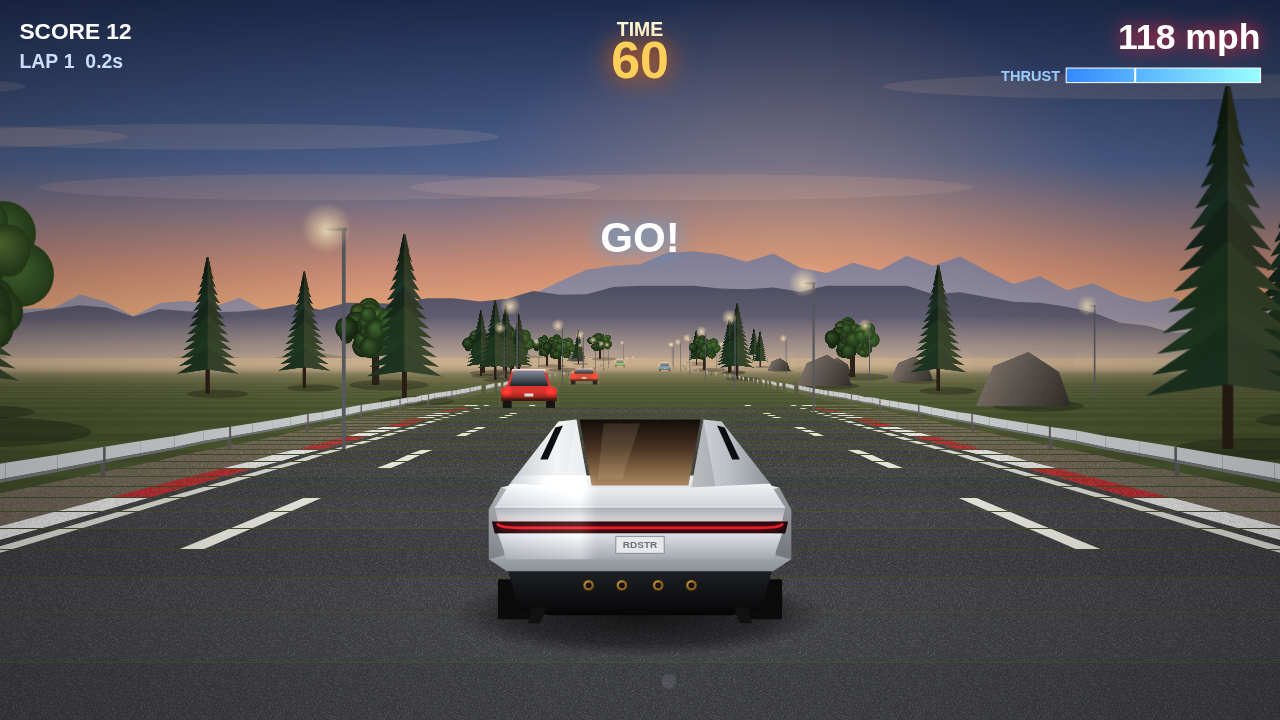
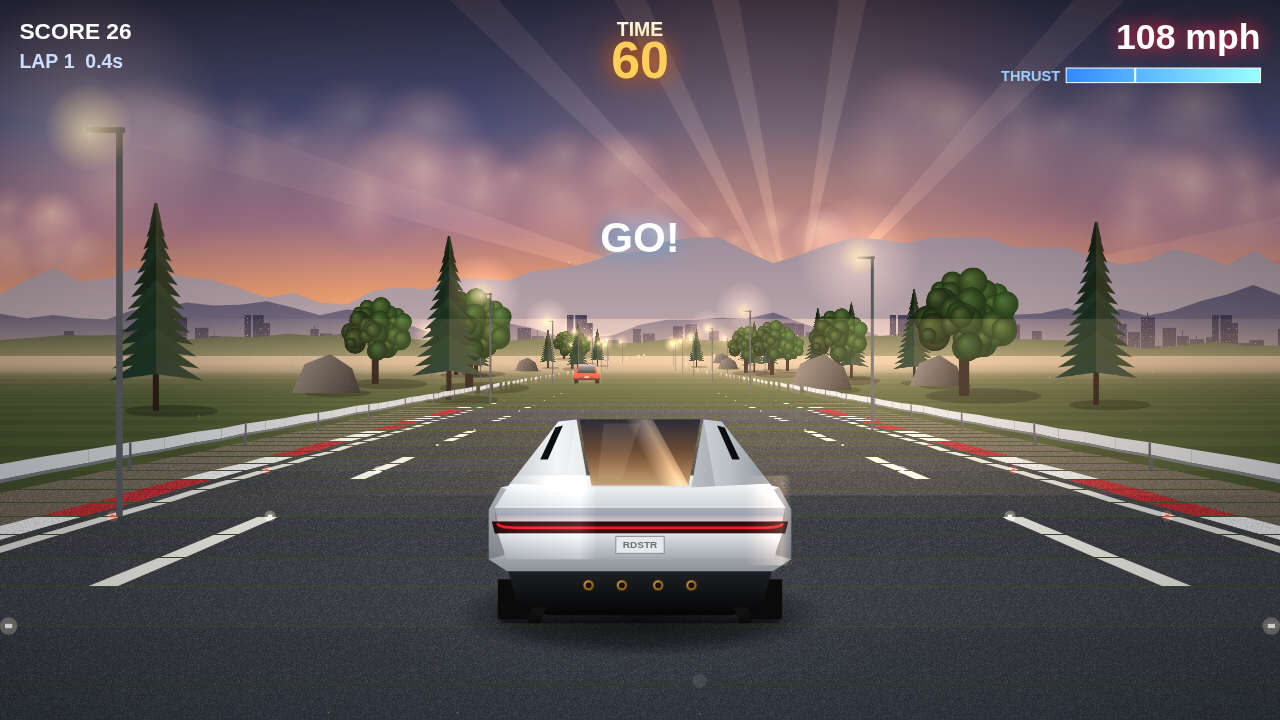
Graphics upgrade, centered jump button

diff --git a/index.html b/index.html
@@ -6,7 +6,7 @@ canvas{display:block;width:100vw;height:100vh;touch-action:none}</style></head><
 <script>
 "use strict";
 const cv=document.getElementById('c'),ctx=cv.getContext('2d');
-let W,H,DPR;function resize(){DPR=Math.min(2,window.devicePixelRatio||1);W=innerWidth;H=innerHeight;cv.width=W*DPR;cv.height=H*DPR;ctx.setTransform(DPR,0,0,DPR,0,0);}
+var Q=2;let W,H,DPR;function resize(){DPR=Math.min(Q<2?1.25:2,window.devicePixelRatio||1);W=innerWidth;H=innerHeight;cv.width=W*DPR;cv.height=H*DPR;ctx.setTransform(DPR,0,0,DPR,0,0);}
 addEventListener('resize',resize);resize();
 ['touchmove','gesturestart','dblclick','contextmenu'].forEach(e=>document.addEventListener(e,ev=>ev.preventDefault(),{passive:false}));
 // ---- track ----
@@ -79,11 +79,11 @@ let slider={},steerT=0,steerId=null,gasP=0,brkP=0;
 let _sb=null;function safeB(){if(_sb==null){const d=document.createElement('div');d.style.cssText='position:fixed;bottom:0;height:0;padding-bottom:env(safe-area-inset-bottom)';document.body.appendChild(d);_sb=parseFloat(getComputedStyle(d).paddingBottom)||0;d.remove();}return _sb;}
 addEventListener('resize',()=>_sb=null);
 function layout(){const s=Math.min(W,H),b=Math.max(60,s*.16),m=16+H*.09+safeB();
- slider={x:16+b*.1,y:H-m-b*.55,w:Math.min(W*.38,b*3.2),h:b*.5,kr:b*.42};
+ slider={x:16+b*.1,y:H-m-b*.55,w:Math.max(b*1.2,Math.min(W*.38,b*3.2,W/2-b*.44-16-b*.1-b*.5)),h:b*.5,kr:b*.42};
  const tw=Math.max(70,b*1.2),th=Math.max(30,b*.42);tgl={x:16,y:slider.y-slider.h*2.6-th-8,w:tw,h:th};rcb={x:16+tw+8,y:tgl.y,w:th*1.3,h:th};
  const gw=b*.62,gh=b*1.45,bw=b*1.05,bh=b*.95;
  const mx=16;btns=[{id:'G',x:W-mx-gw,y:H-m-gh,w:gw,h:gh,lb:'GAS'},{id:'B',x:W-mx-gw-mx-bw,y:H-m-bh,w:bw,h:bh,lb:'BRAKE'},
- {id:'J',x:W-mx-gw-mx-bw-b*.1,y:H-m-bh-mx*2-b*1.3,w:b*1.2,h:b*1.2,lb:'JUMP',round:1}];}
+ {id:'J',x:W/2-b*.44,y:H-m-b*.88,w:b*.88,h:b*.88,lb:'JUMP',round:1}];}
 let isTouch=FORCE_TOUCH;
 function tUpd(e){e.preventDefault();isTouch=true;audioInit();touches={};gasP=brkP=0;const r=cv.getBoundingClientRect();let sl=false;
  if(e.type=='touchend')requestTilt();
@@ -155,7 +155,7 @@ function poly(x1,y1,x2,y2,x3,y3,x4,y4,c){ctx.fillStyle=c;ctx.beginPath();ctx.mov
 const cw=()=>Math.min(W*.32,H*.42),carY=()=>H*.86-jumpZ*H*.22;
 let mtn=[];for(let l=0;l<3;l++){const a=[];let v=.5;for(let i=0;i<=128;i++){v+= (Math.random()-.5)*.25;v=Math.max(.05,Math.min(1,v));a.push(v);}mtn.push(a);}
 let skyOff=0,perf=0;
-function mk(w,h,f){const c=document.createElement('canvas');c.width=w;c.height=h;f(c.getContext('2d'),w,h);return c;}
+function mk(w,h,f){const c=document.createElement('canvas');c.width=w;c.height=h;c.getContext('2d').imageSmoothingQuality='high';f(c.getContext('2d'),w,h);return c;}
 const rnd=(a,b)=>a+Math.random()*(b-a);
 const NOISE=mk(128,128,(g,w,h)=>{const d=g.createImageData(w,h);for(let i=0;i<d.data.length;i+=4){const v=Math.random()*255;d.data[i]=d.data[i+1]=d.data[i+2]=v;d.data[i+3]=Math.random()*38;}g.putImageData(d,0,0);});
 let NPAT=null;
@@ -169,22 +169,49 @@ function pine(g,w,h){g.fillStyle='#2a1d14';g.fillRect(w*.47,h*.8,w*.06,h*.2);
   g.fillStyle='rgba(255,190,120,.12)';g.beginPath();g.moveTo(w*.5,y-h*.08);g.lineTo(w*.5+hw,y+h*.06);g.lineTo(w*.5,y+h*.03);g.fill();}}
 const SPR={oak:[mk(256,256,oak),mk(256,256,oak)],pine:[mk(160,320,pine),mk(160,320,pine)],
  rock:[mk(160,90,(g,w,h)=>{const gr=g.createLinearGradient(0,0,w,h);gr.addColorStop(0,'#8c8178');gr.addColorStop(1,'#2e2925');g.fillStyle=gr;g.beginPath();g.moveTo(5,h);g.lineTo(w*.2,h*.3);g.lineTo(w*.55,h*.05);g.lineTo(w*.85,h*.4);g.lineTo(w-5,h);g.fill();g.globalAlpha=.5;g.drawImage(NOISE,0,0,w,h);})]};
-function bg(){const hz=H*.5;const g=ctx.createLinearGradient(0,0,0,hz);g.addColorStop(0,'#1d2c4f');g.addColorStop(.45,'#4b5f8a');g.addColorStop(.75,'#c78a74');g.addColorStop(.93,'#f2b277');g.addColorStop(1,'#f7d29a');ctx.fillStyle=g;ctx.fillRect(0,0,W,hz+H*.1);
- const sx=W*.62-((skyOff*W*.05)%W+W)%W*0,sy=hz-H*.04;const sg=ctx.createRadialGradient(sx,sy,0,sx,sy,H*.5);sg.addColorStop(0,'rgba(255,245,215,1)');sg.addColorStop(.04,'rgba(255,230,180,.95)');sg.addColorStop(.2,'rgba(255,180,120,.35)');sg.addColorStop(1,'rgba(255,150,100,0)');ctx.fillStyle=sg;ctx.fillRect(0,0,W,hz+H*.1);
- // soft clouds
- ctx.fillStyle='rgba(255,200,170,.12)';for(let i=0;i<6;i++){const cx=((i*W*.37-skyOff*W*.02)%(W*1.4)+W*1.4)%(W*1.4)-W*.2;ctx.beginPath();ctx.ellipse(cx,H*(.12+i%3*.07),W*.22,H*.018,0,0,7);ctx.fill();}
- const cols=[['#7d7a93','#a9a1ae'],['#4d4d63','#7f7686'],['#2b3138','#4a4e52']];
- for(let l=0;l<3;l++){const a=mtn[l],par=(l+1)*.12,base=hz+l*H*.012,amp=H*(.16-l*.045),st=W/48;const off=((skyOff*par*40)%(st*128)+st*128)%(st*128);
+let fpsAcc=0,fpsN=0,lowT=0;
+function mkSkyline(){return mk(1024,160,(g,w,h)=>{let x=0;while(x<w){const bw=rnd(18,46),bh=rnd(30,h*.95);const gr=g.createLinearGradient(0,h-bh,0,h);gr.addColorStop(0,'#3a3550');gr.addColorStop(1,'#26243a');g.fillStyle=gr;g.fillRect(x,h-bh,bw,bh);
+ if(Math.random()<.2){g.fillRect(x+bw*.45,h-bh-rnd(8,20),2,20);}
+ for(let wy=h-bh+5;wy<h-4;wy+=6)for(let wx=x+3;wx<x+bw-3;wx+=5)if(Math.random()<.22){g.fillStyle=`rgba(255,${rnd(190,230)|0},${rnd(120,170)|0},${rnd(.4,.9)})`;g.fillRect(wx,wy,2,2);}x+=bw+rnd(0,6);}});}
+const SKYL=mkSkyline();
+const CLOUD=mk(256,96,(g,w,h)=>{for(let i=0;i<26;i++){const x=rnd(w*.15,w*.85),y=rnd(h*.35,h*.7),r=rnd(14,34);const cg=g.createRadialGradient(x,y-r*.3,0,x,y,r);cg.addColorStop(0,'rgba(255,214,190,.55)');cg.addColorStop(.6,'rgba(200,150,160,.25)');cg.addColorStop(1,'rgba(120,100,140,0)');g.fillStyle=cg;g.beginPath();g.arc(x,y,r,0,7);g.fill();}});
+const motes=[...Array(40)].map(()=>({x:Math.random(),y:Math.random(),s:rnd(.5,1.8),v:rnd(.2,1)}));
+let sunX=0,sunY=0;
+function wrapX(v,m){return((v%m)+m)%m;}
+function bg(){const hz=H*.5;const g=ctx.createLinearGradient(0,0,0,hz);g.addColorStop(0,'#16213f');g.addColorStop(.35,'#3b4a78');g.addColorStop(.62,'#9a7186');g.addColorStop(.82,'#e79a6f');g.addColorStop(.95,'#f6c486');g.addColorStop(1,'#fbe0ae');ctx.fillStyle=g;ctx.fillRect(0,0,W,hz+H*.1);
+ const sx=W*.62,sy=hz-H*.05;sunX=sx;sunY=sy;const sg=ctx.createRadialGradient(sx,sy,0,sx,sy,H*.55);sg.addColorStop(0,'rgba(255,248,225,1)');sg.addColorStop(.035,'rgba(255,236,190,.95)');sg.addColorStop(.18,'rgba(255,185,120,.38)');sg.addColorStop(1,'rgba(255,150,100,0)');ctx.fillStyle=sg;ctx.fillRect(0,0,W,hz+H*.1);
+ // god rays
+ if(Q>1){ctx.save();ctx.globalCompositeOperation='lighter';const R=Math.max(W,H);const rot=perf/40000;for(let i=0;i<14;i++){const a=rot+i*Math.PI*2/14+Math.sin(i*7.3)*.2,aw=.035+.03*Math.sin(i*3.1)**2;
+  const rg=ctx.createRadialGradient(sx,sy,0,sx,sy,R*.7);rg.addColorStop(0,'rgba(255,220,170,.10)');rg.addColorStop(1,'rgba(255,200,150,0)');ctx.fillStyle=rg;ctx.beginPath();ctx.moveTo(sx,sy);ctx.arc(sx,sy,R*.7,a-aw,a+aw);ctx.closePath();ctx.fill();}ctx.restore();}
+ // layered clouds
+ for(let l=0;l<(Q>1?3:1);l++){const cw2=W*(.45-l*.08),ch=cw2*.35,yy=H*(.06+l*.09);const off=-skyOff*W*(.01+l*.015)-perf*.003*(l+1);
+  ctx.globalAlpha=.35+l*.12;for(let i=-1;i<4;i++){ctx.drawImage(CLOUD,wrapX(off+i*W*.6+l*W*.23,W*2.4)-W*.6,yy+((i+l)%2)*H*.02,cw2,ch);}ctx.globalAlpha=1;}
+ const cols=[['#857e98','#b4a6b0'],['#575570','#8a7d8c']];
+ for(let l=0;l<2;l++){const a=mtn[l],par=(l+1)*.12,base=hz+l*H*.01,amp=H*(.17-l*.05),st=W/48;const off=((skyOff*par*40)%(st*128)+st*128)%(st*128);
   const mg=ctx.createLinearGradient(0,base-amp,0,base);mg.addColorStop(0,cols[l][0]);mg.addColorStop(1,cols[l][1]);ctx.fillStyle=mg;ctx.beginPath();ctx.moveTo(0,base+2);
+  for(let x=-st;x<=W+st;x+=st){const fi=(x+off)/st,i=Math.floor(fi),f=fi-i;const v=a[((i%128)+128)%128]*(1-f)+a[(((i+1)%128)+128)%128]*f;ctx.lineTo(x,base-v*amp);}ctx.lineTo(W,base+2);ctx.fill();
+  if(l==0){ctx.fillStyle='rgba(255,210,170,.18)';ctx.fill();}}
+ // city skyline
+ {const sh=H*.07,swd=sh*SKYL.width/SKYL.height,off=wrapX(-skyOff*W*.6,swd);ctx.globalAlpha=.9;for(let x=-off;x<W;x+=swd)ctx.drawImage(SKYL,x+W*.05,hz-sh+2,swd,sh);ctx.globalAlpha=1;}
+ // near hills
+ {const a=mtn[2],base=hz+2,amp=H*.05,st=W/40,off=wrapX(skyOff*.5*40,st*128);const mg=ctx.createLinearGradient(0,base-amp,0,base);mg.addColorStop(0,'#3c4a35');mg.addColorStop(1,'#56603f');ctx.fillStyle=mg;ctx.beginPath();ctx.moveTo(0,base+2);
   for(let x=-st;x<=W+st;x+=st){const fi=(x+off)/st,i=Math.floor(fi),f=fi-i;const v=a[((i%128)+128)%128]*(1-f)+a[(((i+1)%128)+128)%128]*f;ctx.lineTo(x,base-v*amp);}ctx.lineTo(W,base+2);ctx.fill();}
- const hg=ctx.createLinearGradient(0,hz-H*.06,0,hz+H*.02);hg.addColorStop(0,'rgba(247,210,160,0)');hg.addColorStop(1,'rgba(247,210,160,.7)');ctx.fillStyle=hg;ctx.fillRect(0,hz-H*.06,W,H*.08);}
+ const hg=ctx.createLinearGradient(0,hz-H*.06,0,hz+H*.02);hg.addColorStop(0,'rgba(247,210,160,0)');hg.addColorStop(1,'rgba(247,210,160,.55)');ctx.fillStyle=hg;ctx.fillRect(0,hz-H*.06,W,H*.08);}
+function postFX(){
+ // road sheen toward sun
+ ctx.save();ctx.globalCompositeOperation='lighter';const rs=ctx.createRadialGradient(sunX,H*.52,0,sunX,H*.52,W*.5);rs.addColorStop(0,'rgba(255,200,150,.22)');rs.addColorStop(1,'rgba(255,180,120,0)');ctx.fillStyle=rs;ctx.save();ctx.translate(sunX,H*.52);ctx.scale(1,.35);ctx.translate(-sunX,-H*.52);ctx.fillRect(0,H*.3,W,H*.7);ctx.restore();
+ if(Q>1){for(const m of motes){m.y-=m.v*.0006;m.x+=Math.sin(perf/900+m.v*9)*.0004-skyOff*0;if(m.y<.3)m.y=1;const x=m.x*W,y=m.y*H;ctx.fillStyle=`rgba(255,220,170,${.25*m.v})`;ctx.fillRect(x,y,m.s,m.s);}}
+ ctx.restore();
+ // film grade: warm highlights, cool shadows
+ if(Q>1){ctx.save();ctx.globalCompositeOperation='soft-light';const fg=ctx.createLinearGradient(0,0,0,H);fg.addColorStop(0,'rgba(255,170,110,.35)');fg.addColorStop(.6,'rgba(120,120,140,.15)');fg.addColorStop(1,'rgba(30,60,90,.4)');ctx.fillStyle=fg;ctx.fillRect(0,0,W,H);ctx.restore();}}
+function qualityTick(dt){if(dt<=0||/[?&]hq=1/.test(location.search))return;fpsAcc+=dt;fpsN++;if(fpsAcc>1){const fps=fpsN/fpsAcc;fpsAcc=0;fpsN=0;if(Q>1&&fps<45){lowT++;if(lowT>=2){Q=1;resize();}}else lowT=0;}}
 function clipTo(clipY,Y){ctx.save();if(clipY<Y){ctx.beginPath();ctx.rect(0,0,W,clipY);ctx.clip();}}
 function drawSprite(s,X,Y,sc,clipY,fog){const k=sc*W/2*RW;if(k<1)return;let w,h;clipTo(clipY,Y);ctx.globalAlpha=1;
  const t=s.t=='palm'?'pine':s.t=='tree'?'oak':s.t;
  if(SPR[t]){const im=SPR[t][s.v||(s.v=Math.random()<.5?0:1)%SPR[t].length]||SPR[t][0];const sz=t=='oak'?1.0:t=='pine'?1.15:.35;h=k*sz;w=h*im.width/im.height;
   ctx.fillStyle='rgba(0,0,0,.25)';ctx.beginPath();ctx.ellipse(X+w*.15,Y,w*.45,w*.06,0,0,7);ctx.fill();ctx.drawImage(im,X-w/2,Y-h,w,h);}
  else switch(t){
- case'light':h=k*.7;ctx.fillStyle='#55585c';ctx.fillRect(X-k*.006,Y-h,k*.012,h);ctx.fillRect(X-k*.06,Y-h,k*.07,k*.01);
+ case'light':h=k*.7;if(Q>1&&k>8){ctx.globalCompositeOperation='lighter';const bl=ctx.createRadialGradient(X-k*.055,Y-h,0,X-k*.055,Y-h,k*.25);bl.addColorStop(0,'rgba(255,210,150,.25)');bl.addColorStop(1,'rgba(255,200,140,0)');ctx.fillStyle=bl;ctx.fillRect(X-k*.31,Y-h-k*.25,k*.5,k*.5);ctx.globalCompositeOperation='source-over';}ctx.fillStyle='#55585c';ctx.fillRect(X-k*.006,Y-h,k*.012,h);ctx.fillRect(X-k*.06,Y-h,k*.07,k*.01);
   const lg=ctx.createRadialGradient(X-k*.055,Y-h+k*.01,0,X-k*.055,Y-h,k*.08);lg.addColorStop(0,'rgba(255,240,200,.8)');lg.addColorStop(1,'rgba(255,220,160,0)');ctx.fillStyle=lg;ctx.fillRect(X-k*.15,Y-h-k*.1,k*.2,k*.2);break;
  case'cone':if(s.hit)break;w=k*.06;[-1.3,0,1.3].forEach(o=>{const cx=X+o*w;const cg=ctx.createLinearGradient(cx-w*.5,0,cx+w*.5,0);cg.addColorStop(0,'#ff8a2a');cg.addColorStop(1,'#a83a00');ctx.fillStyle=cg;ctx.beginPath();ctx.moveTo(cx-w*.08,Y-w*1.8);ctx.lineTo(cx+w*.08,Y-w*1.8);ctx.lineTo(cx+w*.45,Y-w*.15);ctx.lineTo(cx-w*.45,Y-w*.15);ctx.fill();
   ctx.fillStyle='#eee';ctx.fillRect(cx-w*.27,Y-w*1.05,w*.54,w*.22);ctx.fillStyle='#222';ctx.fillRect(cx-w*.6,Y-w*.15,w*1.2,w*.15);});break;
@@ -201,7 +228,7 @@ function drawAICar(c,X,Y,sc,clipY,fog){const w=sc*W/2*RW*.33;if(w<2)return;const
  const gg=ctx.createLinearGradient(0,Y-h*tall,0,Y-h*.68);gg.addColorStop(0,'#8796a8');gg.addColorStop(1,'#141920');ctx.fillStyle=gg;ctx.beginPath();ctx.moveTo(X-w*.27,Y-h*(tall-.06));ctx.lineTo(X+w*.27,Y-h*(tall-.06));ctx.lineTo(X+w*.35,Y-h*.69);ctx.lineTo(X-w*.35,Y-h*.69);ctx.fill();
  ctx.fillStyle='rgba(0,0,0,.35)';ctx.fillRect(X-w*.5,Y-h*.3,w,h*.1);
  ctx.fillStyle='#ff2a2a';ctx.fillRect(X-w*.47,Y-h*.56,w*.15,h*.09);ctx.fillRect(X+w*.32,Y-h*.56,w*.15,h*.09);
- if(w>20){ctx.globalCompositeOperation='lighter';const tg=ctx.createRadialGradient(0,0,0,0,0,w*.12);tg.addColorStop(0,'rgba(255,40,40,.5)');tg.addColorStop(1,'rgba(255,0,0,0)');ctx.fillStyle=tg;for(const s of[-.4,.4]){ctx.save();ctx.translate(X+s*w,Y-h*.52);ctx.fillRect(-w*.12,-w*.12,w*.24,w*.24);ctx.restore();}ctx.globalCompositeOperation='source-over';}
+ if(w>6){ctx.globalCompositeOperation='lighter';const tg=ctx.createRadialGradient(0,0,0,0,0,w*.12);tg.addColorStop(0,`rgba(255,40,40,${Q>1?.7:.5})`);tg.addColorStop(1,'rgba(255,0,0,0)');ctx.fillStyle=tg;for(const s of[-.4,.4]){ctx.save();ctx.translate(X+s*w,Y-h*.52);ctx.fillRect(-w*.12,-w*.12,w*.24,w*.24);ctx.restore();}ctx.globalCompositeOperation='source-over';}
  ctx.fillStyle='#ddd';ctx.fillRect(X-w*.08,Y-h*.45,w*.16,h*.1);
  if(fog>0){ctx.fillStyle=`rgba(225,190,160,${fog*.6})`;ctx.fillRect(X-w*.55,Y-h*tall,w*1.1,h*tall);}
  ctx.restore();}
@@ -250,6 +277,15 @@ function drawPlayer(){const w=cw(),H2=w*.66,X=W/2+(spin>0?Math.sin(spin*20)*w*.1
   ctx.fillStyle=on?'#dff4ff':'#1a1006';ctx.shadowColor='#8cf';ctx.shadowBlur=on?22:0;ctx.beginPath();ctx.arc(cx,cy,r*.55,0,7);ctx.fill();ctx.shadowBlur=0;}
  // specular sweep
  ctx.globalCompositeOperation='lighter';const spg=ctx.createLinearGradient(-.5*w,0,.5*w,0);spg.addColorStop(0,'rgba(255,255,255,0)');spg.addColorStop(.3,'rgba(255,240,220,.12)');spg.addColorStop(.36,'rgba(255,240,220,0)');ctx.fillStyle=spg;ctx.fillRect(-.5*w,-.72*H2,w,.42*H2);ctx.globalCompositeOperation='source-over';
+ // environment reflections: sky on glass, sun streak, horizon line on body
+ {ctx.save();ctx.beginPath();ctx.moveTo(-.2*w,-1*H2);ctx.lineTo(.2*w,-1*H2);ctx.lineTo(.16*w,-.67*H2);ctx.lineTo(-.16*w,-.67*H2);ctx.closePath();ctx.clip();
+  const rg=ctx.createLinearGradient(0,-1*H2,0,-.67*H2);rg.addColorStop(0,'rgba(120,140,200,.25)');rg.addColorStop(.6,'rgba(255,170,110,.18)');rg.addColorStop(1,'rgba(255,220,170,.3)');ctx.fillStyle=rg;ctx.fillRect(-.2*w,-1*H2,.4*w,.34*H2);
+  const so=((sunX-W/2)/W)*.3*w;ctx.globalCompositeOperation='lighter';const sg2=ctx.createLinearGradient(so-.06*w,0,so+.06*w,0);sg2.addColorStop(0,'rgba(255,230,190,0)');sg2.addColorStop(.5,'rgba(255,230,190,.35)');sg2.addColorStop(1,'rgba(255,230,190,0)');ctx.fillStyle=sg2;
+  ctx.translate(so,-.83*H2);ctx.rotate(-.5);ctx.fillRect(-.06*w,-.3*H2,.12*w,.6*H2);ctx.restore();}
+ {ctx.save();ctx.globalCompositeOperation='multiply';const hb=ctx.createLinearGradient(0,-.56*H2,0,-.49*H2);hb.addColorStop(0,'rgba(150,160,190,.0)');hb.addColorStop(.5,'rgba(120,130,170,.35)');hb.addColorStop(1,'rgba(200,170,150,.1)');ctx.fillStyle=hb;ctx.fillRect(-.48*w,-.56*H2,.96*w,.07*H2);ctx.restore();
+  ctx.save();ctx.globalCompositeOperation='lighter';const rim=ctx.createLinearGradient(-.5*w,0,.5*w,0);rim.addColorStop(0,'rgba(255,190,140,0)');rim.addColorStop(.85,'rgba(255,190,140,0)');rim.addColorStop(.97,'rgba(255,200,150,.22)');rim.addColorStop(1,'rgba(255,200,150,0)');ctx.fillStyle=rim;ctx.fillRect(-.5*w,-.72*H2,w,.45*H2);ctx.restore();}
+ // contact occlusion under car
+ {const og=ctx.createLinearGradient(0,-.03*H2,0,.02*H2);og.addColorStop(0,'rgba(0,0,0,0)');og.addColorStop(1,`rgba(0,0,0,${on?0:.5})`);ctx.fillStyle=og;ctx.fillRect(-.46*w,-.03*H2,.92*w,.05*H2);}
  // deploying wing only when airborne
  if(on){const dep=Math.min(1,jumpZ*4),wy=(-.72-dep*.35)*H2;ctx.fillStyle='#16171a';ctx.fillRect(-.15*w,wy,.02*w,-.72*H2-wy);ctx.fillRect(.13*w,wy,.02*w,-.72*H2-wy);
   ctx.fillStyle=lin(-1.1,-1,[[0,'#2a2b30'],[1,'#0d0d10']]);ctx.fillRect(-.42*w,wy-.04*H2,.84*w,.05*H2);}
@@ -274,6 +310,8 @@ function render(){perf=performance.now();ctx.save();if(shake>0)ctx.translate((Ma
   poly(a.x-a.w,a.y,a.x+a.w,a.y,b.x+b.w,b.y,b.x-b.w,b.y,s.start?'#cfcfcf':s.cp?'#2b7fa8':(alt?'#3a3b3f':'#3e3f43'));
   if(n<60){ctx.fillStyle=NPAT;ctx.beginPath();ctx.moveTo(a.x-a.w*1.35,a.y);ctx.lineTo(a.x+a.w*1.35,a.y);ctx.lineTo(b.x+b.w*1.35,b.y);ctx.lineTo(b.x-b.w*1.35,b.y);ctx.fill();}
   const el=a.w/60,el2=b.w/60;poly(a.x-a.w*.95-el,a.y,a.x-a.w*.95+el,a.y,b.x-b.w*.95+el2,b.y,b.x-b.w*.95-el2,b.y,'#d8d8d0');poly(a.x+a.w*.95-el,a.y,a.x+a.w*.95+el,a.y,b.x+b.w*.95+el2,b.y,b.x+b.w*.95-el2,b.y,'#d8d8d0');
+  if(n<90&&s.i%53<9&&!s.start&&!s.cp){ctx.globalAlpha=.25;for(const tx of[-.18,.18,-.62,-.26]){const q1=a.x+a.w*tx,q2=b.x+b.w*tx,tw1=a.w*.035,tw2=b.w*.035;poly(q1-tw1,a.y,q1+tw1,a.y,q2+tw2,b.y,q2-tw2,b.y,'#111');}ctx.globalAlpha=1;}
+  if(n<70&&s.i%4==0){const ry=a.y,rr=Math.min(3.5,Math.max(.8,a.w*.004));for(const l of[-1/3,1/3,-.95,.95]){const cx=a.x+a.w*l*(Math.abs(l)<.5?2:1);ctx.fillStyle=Math.abs(l)<.5?'#fff6d0':'#ff5040';ctx.fillRect(cx-rr,ry-rr*.6,rr*2,rr*1.2);if(Q>1&&rr>1.5){ctx.globalCompositeOperation='lighter';ctx.fillStyle=Math.abs(l)<.5?'rgba(255,240,200,.25)':'rgba(255,80,60,.25)';ctx.beginPath();ctx.arc(cx,ry,rr*2.5,0,7);ctx.fill();ctx.globalCompositeOperation='source-over';}}}
   if(s.start||s.cp){for(let k=0;k<8;k++)if((k+s.i)%2)poly(a.x-a.w+k*a.w/4,a.y,a.x-a.w+(k+1)*a.w/4,a.y,b.x-b.w+(k+1)*b.w/4,b.y,b.x-b.w+k*b.w/4,b.y,'#151515');}
   else if(s.dark){for(const l of[-1/3,1/3]){const lw1=a.w/55,lw2=b.w/55;poly(a.x+a.w*l*2-lw1,a.y,a.x+a.w*l*2+lw1,a.y,b.x+b.w*l*2+lw2,b.y,b.x+b.w*l*2-lw2,b.y,'#e6e6dc');}}
   ctx.fillStyle=`rgba(${HZ},${s.fog*.85})`;ctx.fillRect(0,b.y,W,a.y-b.y+1);
@@ -290,7 +328,7 @@ function render(){perf=performance.now();ctx.save();if(shake>0)ctx.translate((Ma
    ctx.restore();}
   for(const c of s.cars){const t=(c.z%SEG)/SEG,sc=a.sc+(s.p2.s.sc-a.sc)*t;drawAICar(c,a.x+(s.p2.s.x-a.x)*t+sc*c.x*RW*W/2,a.y+(s.p2.s.y-a.y)*t,sc,s.clip,s.fog);}}
  const vg=ctx.createRadialGradient(W/2,H*.55,Math.min(W,H)*.4,W/2,H*.55,Math.max(W,H)*.8);vg.addColorStop(0,'rgba(0,0,0,0)');vg.addColorStop(1,'rgba(0,0,0,.35)');ctx.fillStyle=vg;ctx.fillRect(0,0,W,H);
- speedLines();
+ postFX();speedLines();
  if(st.mode=='play'||st.mode=='over'){drawParts();drawPlayer();}
  ctx.restore();hud();}
 function txt(t,x,y,sz,c,al,glow){ctx.font=`900 ${sz}px "Trebuchet MS",Arial,sans-serif`;ctx.textAlign=al||'left';ctx.fillStyle=c;ctx.shadowColor=glow||c;ctx.shadowBlur=glow?sz*.5:0;ctx.fillText(t,x,y);ctx.shadowBlur=0;}
@@ -339,7 +377,7 @@ function drawControls(s){const S=slider,cy=S.y+S.h/2;
   ctx.strokeStyle='#cfe';ctx.lineWidth=2;ctx.stroke();if(fuel<.35){ctx.fillStyle='rgba(0,0,0,.55)';ctx.beginPath();ctx.moveTo(cx,cy2);ctx.arc(cx,cy2,r,-Math.PI/2,-Math.PI/2+Math.PI*2*(1-fuel/.35));ctx.fill();}
   txt('JUMP',cx,cy2+s*.25,s*.7,'#fff','center');}}
 if(!CanvasRenderingContext2D.prototype.roundRect)CanvasRenderingContext2D.prototype.roundRect=function(x,y,w,h){this.rect(x,y,w,h)};
-let last=performance.now();function frame(t){const dt=Math.max(0,Math.min(.05,(t-last)/1000));last=t;update(dt);render();requestAnimationFrame(frame);}
+let last=performance.now();function frame(t){const dt=Math.max(0,Math.min(.05,(t-last)/1000));last=t;qualityTick(dt);update(dt);render();requestAnimationFrame(frame);}
 if(location.hash=='#play'){st.mode='play';speed=MAXS*.6;}
 update(0);render();requestAnimationFrame(frame);
 </script></body></html>
